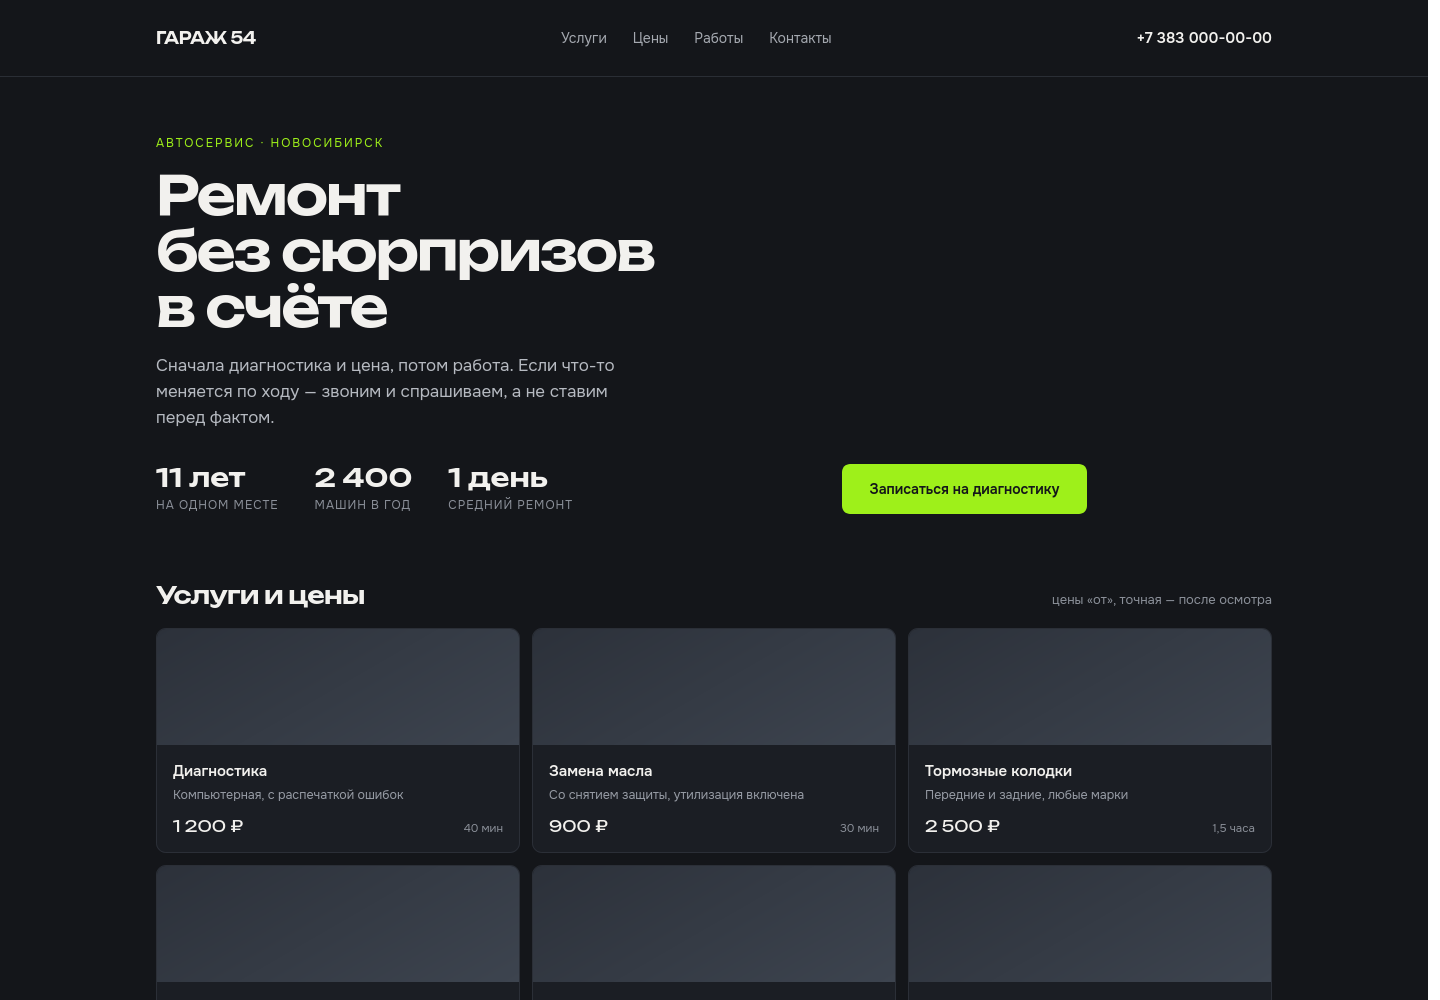
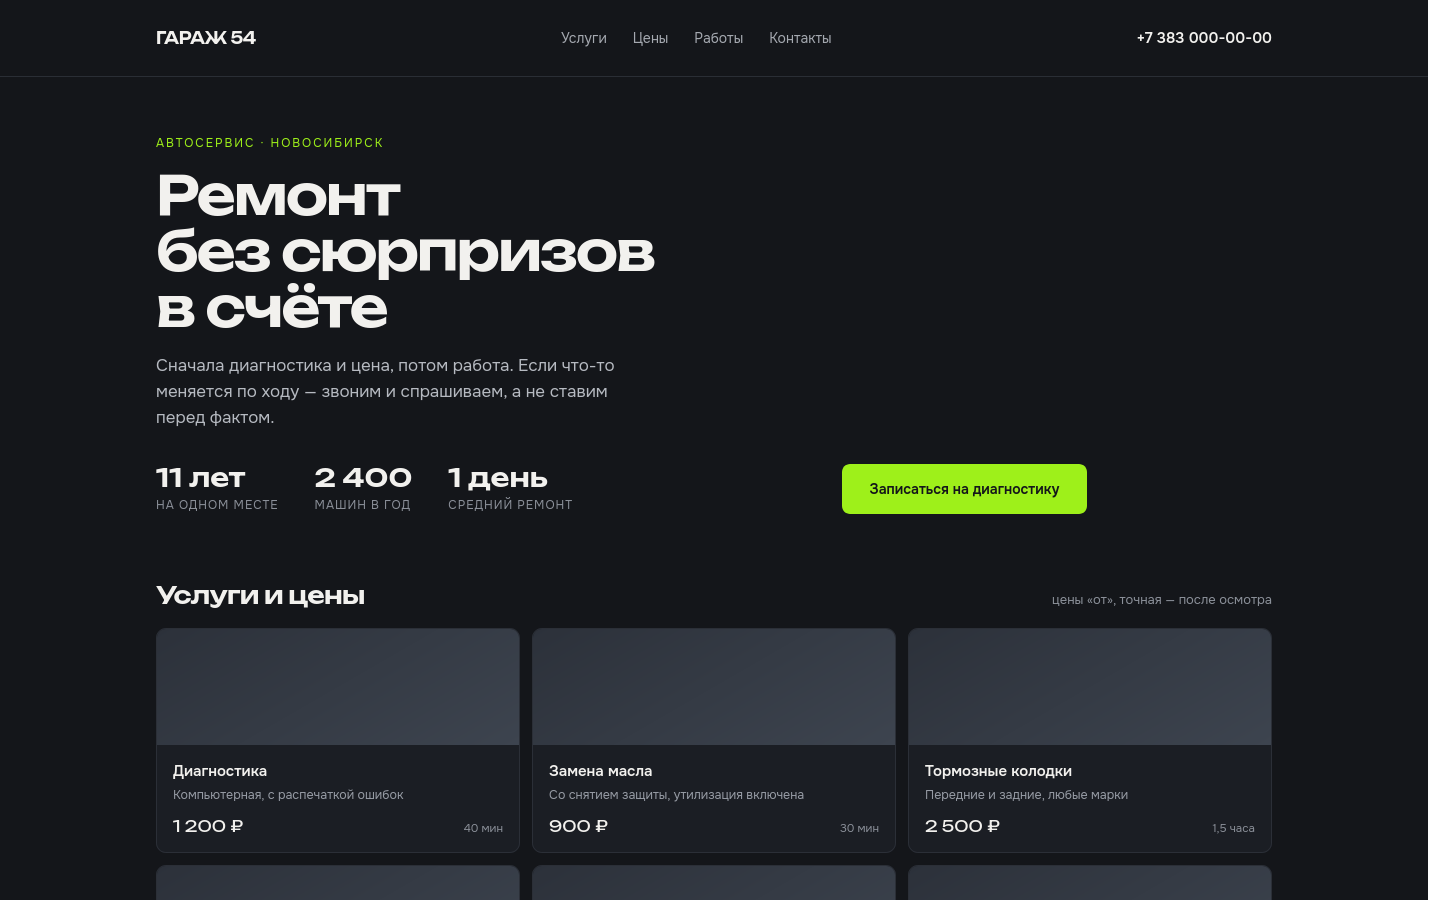
В превью hero — настоящие демо-страницы вместо плашек; третий демо-пример (лендинг)

diff --git a/public/demo/coffee.html b/public/demo/coffee.html
@@ -1,0 +1,84 @@
+<!doctype html>
+<html lang="ru">
+<head>
+<meta charset="utf-8" />
+<title>Кофейня на выезд — демо</title>
+<link rel="preconnect" href="https://fonts.googleapis.com" />
+<link rel="preconnect" href="https://fonts.gstatic.com" crossorigin />
+<link href="https://fonts.googleapis.com/css2?family=Onest:wght@300;400;500;600&family=Unbounded:wght@400;500;600&display=swap" rel="stylesheet" />
+<style>
+  * { box-sizing: border-box; margin: 0; padding: 0; }
+  body { font-family: "Onest", system-ui, sans-serif; background: #f4ede1; color: #1e2a22; -webkit-font-smoothing: antialiased; }
+  .wrap { max-width: 1180px; margin: 0 auto; padding: 0 32px; }
+  header { border-bottom: 1px solid #ddd0bd; }
+  .bar { display: flex; align-items: center; justify-content: space-between; height: 74px; }
+  .brand { font-family: "Unbounded", sans-serif; font-weight: 600; font-size: 16px; letter-spacing: -0.02em; }
+  .bar nav { display: flex; gap: 26px; font-size: 14px; color: #5c6a5f; }
+  .phone { font-weight: 600; font-size: 15px; }
+  .hero { padding: 58px 0 46px; display: grid; grid-template-columns: 1.1fr 0.9fr; gap: 44px; align-items: center; }
+  .kicker { font-size: 12px; letter-spacing: 0.16em; text-transform: uppercase; color: #1f4d3a; margin-bottom: 16px; }
+  h1 { font-family: "Unbounded", sans-serif; font-size: 52px; line-height: 1.04; letter-spacing: -0.04em; font-weight: 600; }
+  .lead { margin-top: 18px; font-size: 16.5px; line-height: 1.55; color: #4d5b51; max-width: 44ch; }
+  .row { margin-top: 28px; display: flex; align-items: center; gap: 18px; }
+  .btn { background: #1f4d3a; color: #f4ede1; padding: 16px 26px; border-radius: 6px; font-size: 14px; font-weight: 600; }
+  .price { font-family: "Unbounded", sans-serif; font-size: 22px; }
+  .price small { display: block; font-family: "Onest", sans-serif; font-size: 12px; color: #6b7a6f; font-weight: 400; margin-top: 4px; }
+  .cup { border-radius: 16px; background: linear-gradient(160deg, #e8dcc8, #b79775 75%); aspect-ratio: 4/3; position: relative; overflow: hidden; }
+  .cup::after { content: ""; position: absolute; left: 12%; right: 12%; bottom: 14%; height: 26%; background: rgba(31,77,58,.18); border-radius: 50%; filter: blur(10px); }
+  .strip { border-top: 1px solid #ddd0bd; padding: 34px 0 40px; display: grid; grid-template-columns: repeat(3, 1fr); gap: 26px; }
+  .item h3 { font-family: "Unbounded", sans-serif; font-size: 15px; font-weight: 500; letter-spacing: -0.01em; }
+  .item p { margin-top: 8px; font-size: 13.5px; line-height: 1.5; color: #5c6a5f; }
+  .num { font-family: "Unbounded", sans-serif; font-size: 13px; color: #1f4d3a; margin-bottom: 10px; }
+  footer { border-top: 1px solid #ddd0bd; padding: 22px 0 34px; font-size: 13px; color: #6b7a6f; display: flex; justify-content: space-between; }
+</style>
+</head>
+<body>
+  <header>
+    <div class="wrap bar">
+      <div class="brand">кофейня «Тёплый»</div>
+      <nav><span>Меню</span><span>Выезд</span><span>Отзывы</span><span>Контакты</span></nav>
+      <div class="phone">+7 913 000-00-00</div>
+    </div>
+  </header>
+
+  <div class="wrap">
+    <div class="hero">
+      <div>
+        <div class="kicker">Кофе на выезд · Новосибирск</div>
+        <h1>Кофейня<br />приезжает<br />к вам сама</h1>
+        <p class="lead">Свадьба, съёмка, офис или день рождения — привозим стойку, бариста и кофе. Час работы, сто чашек, уборка за нами.</p>
+        <div class="row">
+          <span class="btn">Узнать свободные даты</span>
+          <span class="price">от 18 000 ₽<small>за 3 часа, всё включено</small></span>
+        </div>
+      </div>
+      <div class="cup"></div>
+    </div>
+
+    <div class="strip">
+      <div class="item">
+        <div class="num">01</div>
+        <h3>Приезжаем за час</h3>
+        <p>Стойка, оборудование, вода, электричество — наше. Нужна только площадка два на два метра.</p>
+      </div>
+      <div class="item">
+        <div class="num">02</div>
+        <h3>Сто чашек в час</h3>
+        <p>Два бариста на потоке, меню под событие: от эспрессо до рафов и какао для детей.</p>
+      </div>
+      <div class="item">
+        <div class="num">03</div>
+        <h3>Без следов</h3>
+        <p>Убираем за собой: посуда, мусор, кофейный жмых. Площадка после нас чище, чем была.</p>
+      </div>
+    </div>
+  </div>
+
+  <footer>
+    <div class="wrap" style="display:flex;justify-content:space-between;width:100%">
+      <span>ул. Кирова, 12 · ежедневно 08:00–22:00</span>
+      <span>даты на месяц вперёд открыты</span>
+    </div>
+  </footer>
+</body>
+</html>
